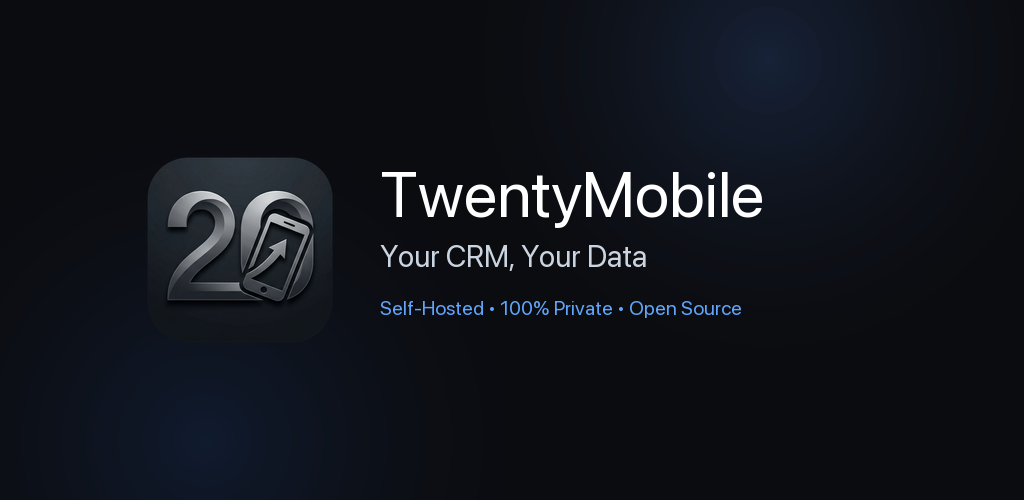
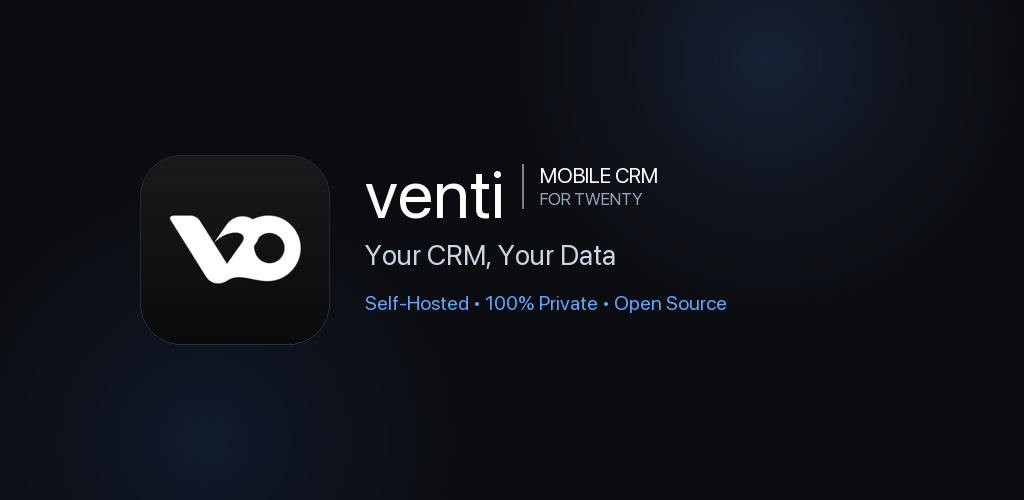
feat(store): update store metadata and branding assets across all 9 locales

diff --git a/scripts/store/generate_mockups.py b/scripts/store/generate_mockups.py
@@ -22,6 +22,7 @@ Output layout conforme a store-kit:
 import math
 import os
 import shutil
+import sys
 from pathlib import Path
 from PIL import Image, ImageDraw, ImageFont, ImageFilter
 
@@ -97,7 +98,7 @@ COPY = {
                 "subtitle": "Capture paper business cards and create\nCRM contacts automatically with OCR."
             }
         ],
-        "fg_title": "TwentyMobile",
+        "fg_title": "venti",
         "fg_sub": "Your CRM, Your Data",
         "fg_badge": "Self-Hosted • 100% Private • Open Source"
     },
@@ -134,7 +135,7 @@ COPY = {
                 "subtitle": "Inquadra biglietti da visita cartacei e crea\ncontatti nel CRM con riconoscimento OCR."
             }
         ],
-        "fg_title": "TwentyMobile",
+        "fg_title": "venti",
         "fg_sub": "Il tuo CRM, i tuoi dati",
         "fg_badge": "Self-Hosted • 100% Privato • Open Source"
     },
@@ -171,7 +172,7 @@ COPY = {
                 "subtitle": "Captura tarjetas de visita y crea contactos\nen Twenty CRM al instante con OCR."
             }
         ],
-        "fg_title": "TwentyMobile",
+        "fg_title": "venti",
         "fg_sub": "Tu CRM, tus propios datos",
         "fg_badge": "Self-Hosted • 100% Privado • Open Source"
     },
@@ -208,7 +209,7 @@ COPY = {
                 "subtitle": "Scannez des cartes de visite et créez des\ncontacts dans Twenty CRM grâce à l'OCR."
             }
         ],
-        "fg_title": "TwentyMobile",
+        "fg_title": "venti",
         "fg_sub": "Votre CRM, vos données",
         "fg_badge": "Self-Hosted • 100% Privé • Open Source"
     },
@@ -245,7 +246,7 @@ COPY = {
                 "subtitle": "Visitenkarten erfassen und Kontakte\nsofort per OCR in Twenty CRM anlegen."
             }
         ],
-        "fg_title": "TwentyMobile",
+        "fg_title": "venti",
         "fg_sub": "Dein CRM, deine Daten",
         "fg_badge": "Self-Hosted • 100% Privat • Open Source"
     },
@@ -282,7 +283,7 @@ COPY = {
                 "subtitle": "Digitalize cartões de visita e crie contatos\nno Twenty CRM instantaneamente via OCR."
             }
         ],
-        "fg_title": "TwentyMobile",
+        "fg_title": "venti",
         "fg_sub": "Seu CRM, seus dados",
         "fg_badge": "Self-Hosted • 100% Privado • Open Source"
     },
@@ -319,7 +320,7 @@ COPY = {
                 "subtitle": "Skanuj wizytówki i twórz kontakty\nw Twenty CRM automatycznie przez OCR."
             }
         ],
-        "fg_title": "TwentyMobile",
+        "fg_title": "venti",
         "fg_sub": "Twój CRM, Twoje dane",
         "fg_badge": "Self-Hosted • 100% Prywatności • Open Source"
     },
@@ -356,7 +357,7 @@ COPY = {
                 "subtitle": "Сканируйте визитки и мгновенно\nсоздавайте контакты в Twenty CRM с OCR."
             }
         ],
-        "fg_title": "TwentyMobile",
+        "fg_title": "venti",
         "fg_sub": "Ваша CRM, ваши данные",
         "fg_badge": "Self-Hosted • 100% Приватно • Open Source"
     },
@@ -393,7 +394,7 @@ COPY = {
                 "subtitle": "Kartvizitleri tarayın ve OCR ile\nTwenty CRM içinde anında kişi oluşturun."
             }
         ],
-        "fg_title": "TwentyMobile",
+        "fg_title": "venti",
         "fg_sub": "Sizin CRM'iniz, Veriniz",
         "fg_badge": "Self-Hosted • %100 Gizli • Açık Kaynak"
     }
@@ -699,53 +700,71 @@ def render_dual_mockup(cfg_profile, slide_idx, text_data, raw_screen_left, raw_s
 
 
 def generate_feature_graphic(loc_dir, copy_item, icon_src):
-    """Feature Graphic Google Play 1024x500 con Safe Area e ampi margini esterni (~15%)."""
+    """Feature Graphic Google Play 1024x500 con Safe Area, brand lockup e colori della home."""
     w, h = 1024, 500
     fg = create_twenty_gradient(w, h)
     
-    # Pulizia perfetta dell'icona: elimina bordi bianchi esterni tramite maschera pulita
+    # 1. Icona con squircle pulito e bordo sottile
     icon_master = Image.open(icon_src).convert("RGBA")
-    mask = Image.new("L", icon_master.size, 0)
-    m_draw = ImageDraw.Draw(mask)
-    inset = 14
-    rad = int((icon_master.width - inset * 2) * 0.22)
-    m_draw.rounded_rectangle(
-        [inset, inset, icon_master.width - inset, icon_master.height - inset],
-        radius=rad, fill=255
-    )
-    icon_clean = Image.new("RGBA", icon_master.size, (0, 0, 0, 0))
-    icon_clean.paste(icon_master, (0, 0), mask)
-    
-    # Icona con margini safe aumentati: x = 145 (14.2% margine sinistro)
     icon_sz = 190
-    icon_img = icon_clean.resize((icon_sz, icon_sz), Image.Resampling.LANCZOS)
-    icon_pos = (145, 155)
+    icon_resized = icon_master.resize((icon_sz, icon_sz), Image.Resampling.LANCZOS)
     
+    mask = Image.new("L", (icon_sz, icon_sz), 0)
+    m_draw = ImageDraw.Draw(mask)
+    rad = int(icon_sz * 0.22)
+    m_draw.rounded_rectangle([0, 0, icon_sz - 1, icon_sz - 1], radius=rad, fill=255)
+    
+    icon_clean = Image.new("RGBA", (icon_sz, icon_sz), (0, 0, 0, 0))
+    icon_clean.paste(icon_resized, (0, 0), mask)
+    
+    # Bordo sottile di rifinitura
+    b_draw = ImageDraw.Draw(icon_clean)
+    b_draw.rounded_rectangle([0, 0, icon_sz - 1, icon_sz - 1], radius=rad, outline=(255, 255, 255, 30), width=1)
+    
+    icon_pos = (140, 155)
     fg_rgba = fg.convert("RGBA")
-    fg_rgba.paste(icon_img, icon_pos, icon_img)
+    fg_rgba.paste(icon_clean, icon_pos, icon_clean)
     draw = ImageDraw.Draw(fg_rgba)
     
-    # Blocco testi con safe area: margine sinistro tx = 380, ben distante da tutti i bordi
-    tx = 380
+    # 2. Blocco Brand Lockup orizzontale (stile header della home)
+    tx = 365
+    ty = 152
     
-    # 1. Titolo "TwentyMobile" (grande, bianco brillante, allineato con il logo)
-    t_font = get_font(64, bold=True)
-    draw.text((tx, 155), copy_item["fg_title"], font=t_font, fill=(255, 255, 255))
+    # Nome brand "venti" minuscolo geometrico
+    font_venti = get_font(68, bold=True)
+    draw.text((tx, ty), copy_item["fg_title"], font=font_venti, fill=(255, 255, 255))
+    v_bbox = font_venti.getbbox(copy_item["fg_title"])
+    venti_w = v_bbox[2] - v_bbox[0]
     
-    # 2. Sottotitolo
-    s_font = get_font(30, bold=False)
-    draw.text((tx, 238), copy_item["fg_sub"], font=s_font, fill=(203, 213, 225))
+    # Barra verticale di separazione sottile
+    sep_x = tx + venti_w + 18
+    sep_y1 = ty + 12
+    sep_y2 = ty + 56
+    draw.line([(sep_x, sep_y1), (sep_x, sep_y2)], fill=(120, 130, 145), width=2)
     
-    # 3. Punti chiave (privato, self-hosted, open source)
+    # Specifica MOBILE CRM sopra e FOR TWENTY sotto
+    desc_x = sep_x + 18
+    font_desc1 = get_font(21, bold=True)
+    font_desc2 = get_font(17, bold=False)
+    draw.text((desc_x, ty + 10), "MOBILE CRM", font=font_desc1, fill=(255, 255, 255))
+    draw.text((desc_x, ty + 36), "FOR TWENTY", font=font_desc2, fill=(148, 163, 184))
+    
+    # 3. Sottotitolo localizzato (motto)
+    s_font = get_font(28, bold=False)
+    draw.text((tx, ty + 85), copy_item["fg_sub"], font=s_font, fill=(203, 213, 225))
+    
+    # 4. Punti chiave (badge: self-hosted, privato, open source)
     f_font = get_font(20, bold=True)
-    draw.text((tx, 295), copy_item["fg_badge"], font=f_font, fill=(96, 165, 250))
+    draw.text((tx, ty + 138), copy_item["fg_badge"], font=f_font, fill=(96, 165, 250))
     
     out_png = loc_dir / "featureGraphic.png"
     fg_rgba.convert("RGB").save(out_png, "PNG", optimize=True)
 
 
 def main():
-    print("🎨 Generazione Mockup TwentyMobile (Pillow puro) — 6 slide per dispositivo...")
+    assets_only = "--assets-only" in sys.argv
+    mode_str = "solo icone e feature graphic" if assets_only else "6 slide per dispositivo + asset"
+    print(f"🎨 Generazione Mockup venti (Pillow puro) — {mode_str}...")
     
     total_imgs = 0
     for loc in LOCALES:
@@ -757,13 +776,18 @@ def main():
         # 1. Feature Graphic (1024x500)
         generate_feature_graphic(loc_dir, loc_copy, ICON_RAW)
         total_imgs += 1
+        print("  ✓ featureGraphic.png")
         
         # 2. App Icon (512x512)
         icon_dest = loc_dir / "icon.png"
         icon_master = Image.open(ICON_RAW).convert("RGBA").resize((512, 512), Image.Resampling.LANCZOS)
         icon_master.save(icon_dest, "PNG")
         total_imgs += 1
+        print("  ✓ icon.png (512x512)")
         
+        if assets_only:
+            continue
+            
         # 3. Le 6 slide per ciascuno dei 5 profili dispositivo
         for prof_name, prof_cfg in PROFILES.items():
             # Scelta screenshot nativi: iPad per iPad, iPhone per iPhone, Android per Android
